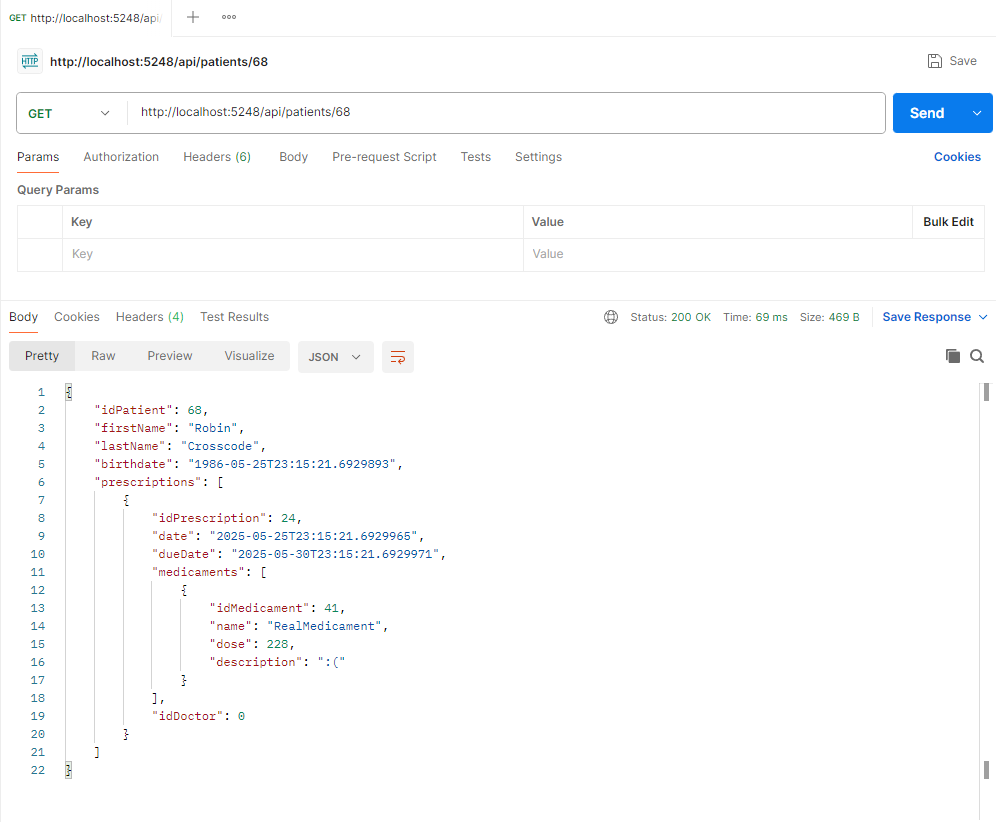
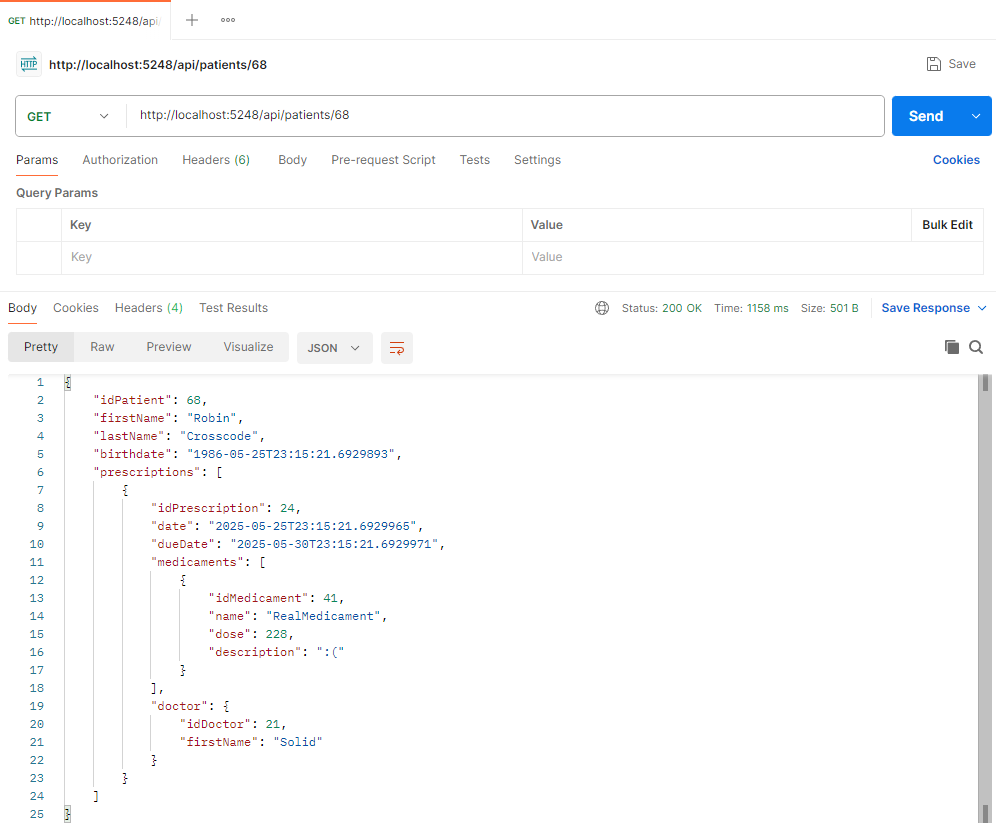
Added full doctorDTO to PatientGet, updated photo of result

diff --git a/APBD11/Services/PatientService.cs b/APBD11/Services/PatientService.cs
@@ -47,6 +47,11 @@ public class PatientService : IPatientService
                         Date = pr.Date,
                         DueDate = pr.DueDate,
                         IdPrescription = pr.IdPrescription,
+                        Doctor = new DoctorPatientDTO
+                        {
+                            IdDoctor = pr.Doctor.IdDoctor,
+                            FirstName = pr.Doctor.FirstName
+                        }, 
                         Medicaments = pr.PrescriptionMedicaments
                             .Select(pm => new MedicamentPatientDTO()
                             {

diff --git a/APBD11/DTO`s/PatientFullDTO.cs b/APBD11/DTO`s/PatientFullDTO.cs
@@ -15,7 +15,13 @@ public class PrescriptionPatientDTO
     public DateTime Date { get; set; }
     public DateTime DueDate { get; set; }
     public List<MedicamentPatientDTO> Medicaments { get; set; }
+    public DoctorPatientDTO Doctor { get; set; }
+}
+
+public class DoctorPatientDTO
+{
     public int IdDoctor { get; set; }
+    public string FirstName { get; set; }
 }
 
 public class MedicamentPatientDTO
